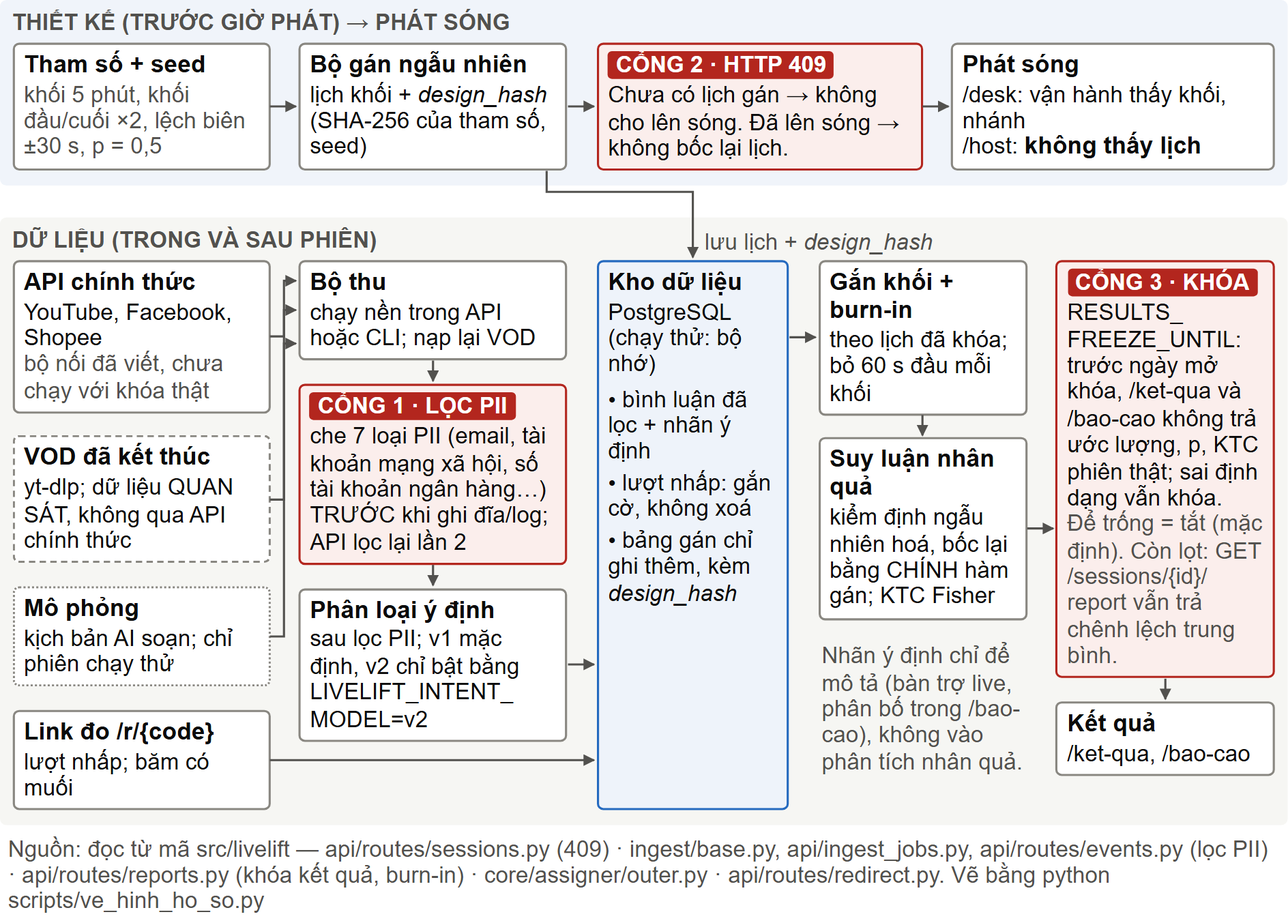
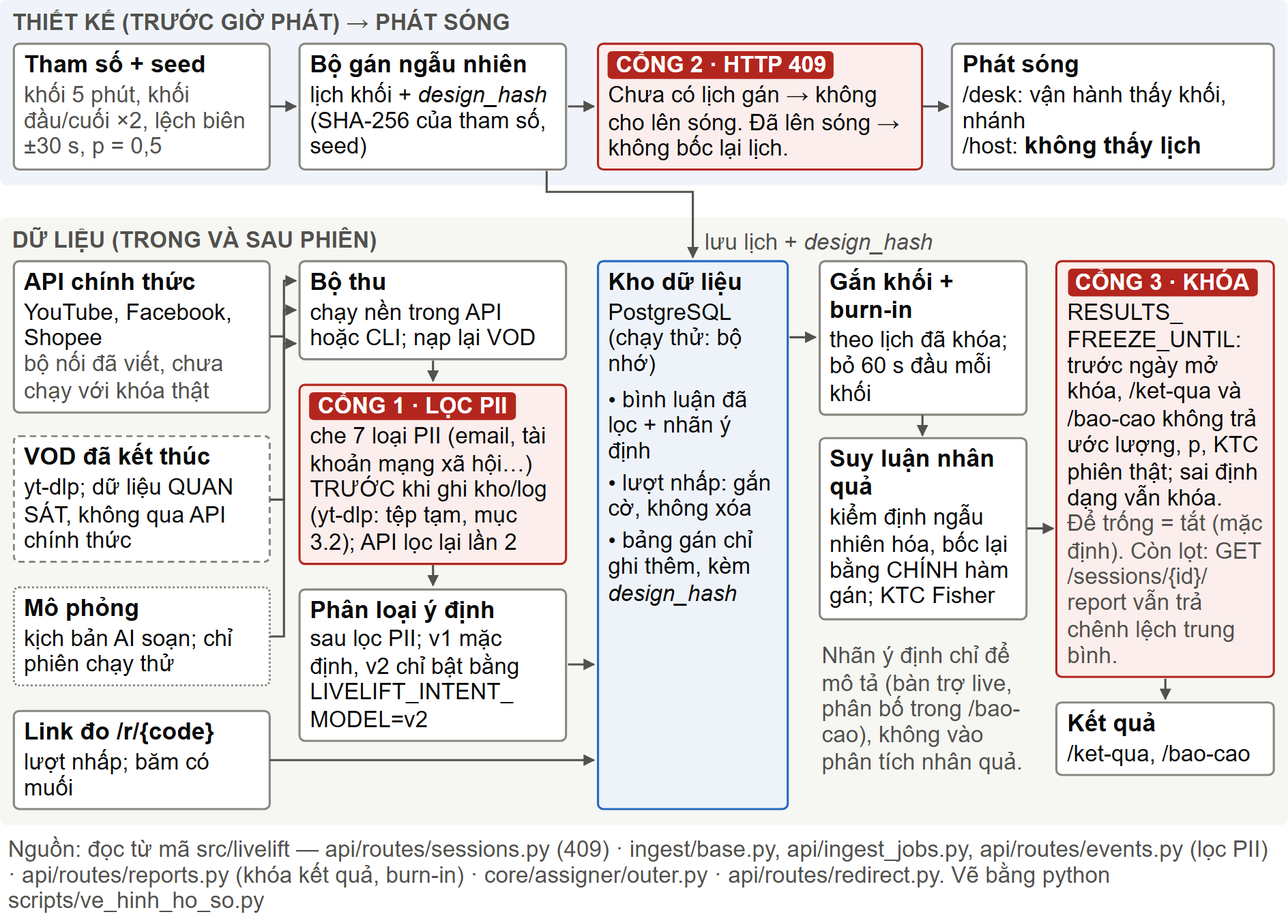
Ho so, ke khai: sua loi con lai cua kiem doc lap (P0 cong, 6 P1, P2)
Vi sao:
- Kiem doc lap 25/09 (wf6) tim 1 P0, 6 P1, 13 P2 con lai sau 39ab96a/816ed60.
- P1: tests/test_artifact_khong_pii.py va so su co ghi 12 ky tu dau SHA-256
  khong muoi cua ten tai khoan that mot nguoi binh luan, trai ho so 3.2
  "ke ca dang bam"; chuoi nam o 47e5320, 17c3ee1, chua len origin/main.
- P1: the Tu ghim tren /chay-phien (se len video demo) hua "tu ghim san pham
  tot nhat; ban chi theo doi", trai ho so 11.2 va ke khai IX.
- P1: Bang 6 ghi hieu hai trung binh "da go" trong khi analyze_outer dung no
  lam uoc luong diem; Bang 10 xep Next.js, INGEST_TOKEN, RESULTS_FREEZE_UNTIL
  sau cac phien that; may chu Singapore chua noi voi Luat 91 Dieu 20; 11.2
  chua tra loi cau nguoi xem chiu can thiep khong duoc bao truoc.
- P0: ke khai ta kho truoc hop nhat (main 390027b, 56/56, "chua hop nhat");
  dien ma commit o muc 13 ma khong sua 05 thi hai van ban nop cung mau thuan.

Thay doi:
- Test PII: bam ten tai khoan doc tu tep ngoai kho (LIVELIFT_DINH_DANH_BAM,
  mac dinh tep canh thu muc kho); cong quet moi tep da theo doi tim tien to
  >=10 hex cua bam da biet (doi chung duong); go chuoi hex khoi test va so.
- Web: the Tu ghim noi "tu chon san pham va ra lenh ghim trong khoi BAT;
  nguoi tro live van bam ghim tren ung dung cua nen tang"; HUONG-DAN theo.
- dung_ke_khai.lech_trang_thai_kho: muc 13 co ma commit thi 05 phai ghi dung
  ma do va het cau ta kho truoc hop nhat; bo dung ke khai chan.
- noi-dung.md: Bang 6, Bang 10 (+ dieu kien truoc phien that duoi bang),
[…]

Changed region(s): [[0.2188, 0.4967, 0.4375, 0.6208]]

diff --git a/docs/competition/sang-tao-tre-2026/hinh/h2-kien-truc.html b/docs/competition/sang-tao-tre-2026/hinh/h2-kien-truc.html
@@ -60,22 +60,22 @@
    <div class="cot">
     <div class="hop" id="thu"><b>Bộ thu</b>chạy nền trong API hoặc CLI; nạp lại VOD</div>
     <div class="hop cong" id="cong1"><span class="the">CỔNG 1 · LỌC PII</span><br>
-      che 7 loại PII (email, tài khoản mạng xã hội, số tài khoản ngân hàng…) TRƯỚC khi ghi đĩa/log;
-      API lọc lại lần 2</div>
+      che 7 loại PII (email, tài khoản mạng xã hội…) TRƯỚC khi ghi kho/log
+      (yt-dlp: tệp tạm, mục 3.2); API lọc lại lần 2</div>
     <div class="hop" id="nlp"><b>Phân loại ý định</b>sau lọc PII; v1 mặc định, v2 chỉ bật bằng
       LIVELIFT_<wbr>INTENT_<wbr>MODEL=v2</div>
    </div>
    <div class="cot">
     <div class="hop kho" id="kho"><b>Kho dữ liệu</b>PostgreSQL (chạy thử: bộ nhớ)
       <div style="margin-top:0.1cm">• bình luận đã lọc + nhãn ý định</div>
-      <div style="margin-top:0.06cm">• lượt nhấp: gắn cờ, không xoá</div>
+      <div style="margin-top:0.06cm">• lượt nhấp: gắn cờ, không xóa</div>
       <div style="margin-top:0.06cm">• bảng gán chỉ ghi thêm, kèm <i>design_hash</i></div></div>
    </div>
    <div class="cot">
     <div class="hop" id="khung"><b>Gắn khối + burn-in</b>
       theo lịch đã khóa; bỏ 60 s đầu mỗi khối</div>
     <div class="hop" id="ri"><b>Suy luận nhân quả</b>
-      kiểm định ngẫu nhiên hoá, bốc lại bằng CHÍNH hàm gán; KTC Fisher</div>
+      kiểm định ngẫu nhiên hóa, bốc lại bằng CHÍNH hàm gán; KTC Fisher</div>
     <div class="ghi-chu">Nhãn ý định chỉ để mô tả (bàn trợ live, phân bố trong
       /bao-cao), không vào phân tích nhân quả.</div>
    </div>

diff --git a/web/src/app/chay-phien/page.tsx b/web/src/app/chay-phien/page.tsx
@@ -1631,7 +1631,7 @@ export default function ChayPhienPage() {
                             khuyên dùng
                           </span>
                         }
-                        note="Hệ thống tự ghim sản phẩm tốt nhất khi đến lượt; bạn chỉ theo dõi trên bàn trợ live."
+                        note="Hệ thống tự chọn sản phẩm và ra lệnh ghim trong khối BẬT; người trợ live vẫn bấm ghim trên ứng dụng của nền tảng."
                       />
                       <ChoiceCard
                         selected={form.mode === "suggest"}

diff --git a/tests/test_artifact_khong_pii.py b/tests/test_artifact_khong_pii.py
@@ -2,7 +2,7 @@
 
 Sự cố 25/09/2026 (P0). ``intent_clf_v2.joblib`` đóng gói 14/09 trên dữ liệu CHƯA
 lọc lại tên tài khoản, nên từ vựng TF-IDF của nó chứa 1 token sinh từ tên tài
-khoản của một người bình luận (sha256[:12] = ``66bb97b5d495``) cùng các mảnh
+khoản của một người bình luận (băm ghi ngoài kho, xem ``TEP_BAM_MAC_DINH``) cùng các mảnh
 ``char_wb`` chứa ``@``. Pickle giữ nguyên văn từng chuỗi của từ vựng: artifact
 commit vào git là một bản sao dữ liệu người dùng, dù dữ liệu gốc đã lọc sạch.
 Không cổng nào bắt được, vì mọi cổng PII chỉ quét tệp văn bản.
@@ -41,8 +41,11 @@ from __future__ import annotations
 import copy
 import hashlib
 import json
+import os
 import re
+import subprocess
 from collections.abc import Iterable, Iterator
+from pathlib import Path
 from typing import Any
 
 import pytest
@@ -58,8 +61,63 @@ AT_WORD_RE = re.compile(r"@\w")
 """Mẫu ``@`` + ký tự chữ: dấu vết của handle (``@ten_tai_khoan``) trong bất kỳ
 mảnh n-gram nào, kể cả mảnh quá ngắn để ``SOCIAL_HANDLE_RE`` (≥ 3 ký tự) khớp."""
 
-KNOWN_LEAKED_SHA12: frozenset[str] = frozenset({"66bb97b5d495"})
-"""Băm sha256[:12] của token đã lộ (sự cố 25/09/2026). Chỉ lưu băm."""
+GOC = Path(__file__).resolve().parents[1]
+BIEN_TEP_BAM = "LIVELIFT_DINH_DANH_BAM"
+TEP_BAM_MAC_DINH = GOC.parent / "dinh-danh-da-biet.sha256"
+"""Tệp băm SHA-256 tên tài khoản thật đã biết (``xuat_prompt_log.py --lap-doi-chieu``), lưu
+NGOÀI kho: đặt đường dẫn qua ``LIVELIFT_DINH_DANH_BAM``; không đặt thì thử tệp cạnh thư mục
+kho (``D:/AISC2026/dinh-danh-da-biet.sha256`` trên máy đội trưởng); không có thì lớp 2 và
+phép quét tiền tố bên dưới không chạy — ba lớp còn lại vẫn chạy."""
+TIEN_TO_TOI_THIEU = 10
+"""Tiền tố ≥ 10 ký tự hex (40 bit) của một băm đã biết cũng là định danh: đủ để xác nhận một
+tên đoán thử. Cùng ngưỡng với ``TIEN_TO_BAM_TOI_THIEU`` của ``scripts/xuat_prompt_log.py``."""
+
+
+def _doc_bam_dinh_danh() -> frozenset[str]:
+    duong = os.environ.get(BIEN_TEP_BAM)
+    if not duong:
+        if not TEP_BAM_MAC_DINH.exists():
+            return frozenset()
+        duong = str(TEP_BAM_MAC_DINH)
+    tap = set()
+    for dong in Path(duong).read_text(encoding="utf-8").splitlines():
+        dong = dong.strip()
+        if dong and not dong.startswith("#"):
+            bam = dong.split()[0].lower()
+            assert re.fullmatch(r"[0-9a-f]{64}", bam), f"{BIEN_TEP_BAM}: dòng không phải SHA-256"
+            tap.add(bam)
+    assert tap, f"{duong}: tập băm rỗng"
+    return frozenset(tap)
+
+
+BAM_DINH_DANH: frozenset[str] = _doc_bam_dinh_danh()
+
+KNOWN_LEAKED_SHA12: frozenset[str] = frozenset(b[:12] for b in BAM_DINH_DANH)
+"""sha256[:12] của các tên tài khoản thật đã biết — gồm token đã lộ của sự cố 25/09/2026 —
+đọc từ tệp băm ngoài kho (rỗng khi không có tệp). Không ghi băm nào vào kho."""
+
+
+def tien_to_bam_trong_kho(tap: frozenset[str]) -> list[str]:
+    """``tệp:dòng`` của mỗi đoạn hex trong tệp văn bản ĐÃ THEO DÕI của kho chứa tiền tố
+    (≥ ``TIEN_TO_TOI_THIEU`` ký tự) của một băm trong ``tap``. Không trả chính đoạn hex."""
+    tien_to = {b[:TIEN_TO_TOI_THIEU] for b in tap}
+    tep = subprocess.run(
+        ["git", "ls-files", "-z"], cwd=GOC, capture_output=True, check=True
+    ).stdout.decode("utf-8")
+    kq = []
+    n = TIEN_TO_TOI_THIEU
+    for ten in filter(None, tep.split("\0")):
+        p = GOC / ten
+        if p.suffix.lower() in {".png", ".joblib", ".ico", ".jpg", ".pdf"} or not p.is_file():
+            continue
+        for so, dong in enumerate(p.read_text(encoding="utf-8", errors="ignore").splitlines(), 1):
+            for m in re.finditer(rf"[0-9a-fA-F]{{{n},}}", dong):
+                s = m.group(0).lower()
+                if any(s[i : i + n] in tien_to for i in range(len(s) - n + 1)):
+                    kq.append(f"{ten}:{so}")
+                    break
+    return kq
+
 
 HANDLE_SPAN_RE = re.compile(r"@\w[\w.\-]*")
 """Đoạn ``@tên`` bất kể chữ đứng trước — rộng hơn ``SOCIAL_HANDLE_RE`` của sản phẩm,
@@ -369,6 +427,17 @@ def test_doi_chung_am_bam_da_lo_bi_bat_ma_khong_can_luu_chu():
     known = KNOWN_LEAKED_SHA12 | {sha12(gia)}
     assert ly_do_vi_pham(gia, known) == "băm-đã-lộ"
     assert quet(["chào shop", gia], known) == [(sha12(gia), "băm-đã-lộ")]
+    # Kiểm độc lập 25/09/2026 (wf6-5): chính hằng số băm đã lộ từng nằm trong kho (test này và
+    # sổ sự cố) — 12 ký tự đầu của SHA-256 KHÔNG muối của một tên tài khoản thật, băm ngược
+    # được bằng cách đoán tên từ bản phát lại công khai; trái hồ sơ 3.2 "kể cả dạng băm". Băm
+    # nay chỉ nằm trong tệp ngoài kho; không tệp nào của kho được mang tiền tố của chúng.
+    # Đối chứng dương: một băm SHA-256 ghi sẵn trong kho (không phải định danh) phải bị thấy.
+    mau = "docs/benchmarks/intent-eval/gan-mu/khoa-gan-mu.csv.sha256"
+    bam_mau = (GOC / mau).read_text(encoding="utf-8").split()[0].lower()
+    assert f"{mau}:1" in tien_to_bam_trong_kho(frozenset({bam_mau}))
+    if BAM_DINH_DANH:
+        cho = tien_to_bam_trong_kho(BAM_DINH_DANH)
+        assert cho == [], f"tiền tố băm tên tài khoản thật còn trong kho (tệp:dòng): {cho}"
 
 
 def test_placeholder_cua_bo_chuan_hoa_khong_bi_coi_la_pii():

diff --git a/scripts/ve_hinh_ho_so.py b/scripts/ve_hinh_ho_so.py
@@ -563,7 +563,7 @@ def ve_h1(plt) -> dict:
             linespacing=1.15,
         )
 
-    # mốc lên sóng + kết thúc (hàng T2) và mốc khoá lịch (hàng T1)
+    # mốc lên sóng + kết thúc (hàng T2) và mốc khóa lịch (hàng T1)
     y_t2, y_t1 = 3.0, 3.52
     for xm in (0, PHIEN_PHUT):
         ax.plot([xm, xm], [y0 - 0.03, y_t2 - 0.02], color=MUC, lw=1.1, zorder=7)
@@ -591,7 +591,7 @@ def ve_h1(plt) -> dict:
     ax.text(
         xk + 0.8,
         y_t1,
-        f"Khoá lịch TRƯỚC giờ phát — POST /schedule lưu lịch + design_hash {ma_bam[:16]}…",
+        f"Khóa lịch TRƯỚC giờ phát — POST /schedule lưu lịch + design_hash {ma_bam[:16]}…",
         fontsize=8,
         ha="left",
         va="center",
@@ -661,7 +661,7 @@ def ve_h1(plt) -> dict:
         Patch(facecolor=XAM_TAT, edgecolor="none", label="TẮT — khối đối chứng"),
         Patch(facecolor=MUC, alpha=0.6, edgecolor="none", label=f"burn-in {BURN_IN_S} s"),
         plt.Line2D(
-            [], [], ls="none", marker="D", ms=5, color=DO_CONG, mec="white", label="khoá lịch"
+            [], [], ls="none", marker="D", ms=5, color=DO_CONG, mec="white", label="khóa lịch"
         ),
     ]
     fig.legend(
@@ -784,22 +784,22 @@ def html_h2() -> str:
    <div class="cot">
     <div class="hop" id="thu"><b>Bộ thu</b>chạy nền trong API hoặc CLI; nạp lại VOD</div>
     <div class="hop cong" id="cong1"><span class="the">CỔNG 1 · LỌC PII</span><br>
-      che {len(ten_pii)} loại PII ({", ".join(ten_pii[:3])}…) TRƯỚC khi ghi đĩa/log;
-      API lọc lại lần 2</div>
+      che {len(ten_pii)} loại PII ({", ".join(ten_pii[:2])}…) TRƯỚC khi ghi kho/log
+      (yt-dlp: tệp tạm, mục 3.2); API lọc lại lần 2</div>
     <div class="hop" id="nlp"><b>Phân loại ý định</b>sau lọc PII; v1 mặc định, v2 chỉ bật bằng
       {INTENT_MODEL_ENV.replace("_", "_<wbr>")}=v2</div>
    </div>
    <div class="cot">
     <div class="hop kho" id="kho"><b>Kho dữ liệu</b>PostgreSQL (chạy thử: bộ nhớ)
       <div style="margin-top:0.1cm">• bình luận đã lọc + nhãn ý định</div>
-      <div style="margin-top:0.06cm">• lượt nhấp: gắn cờ, không xoá</div>
+      <div style="margin-top:0.06cm">• lượt nhấp: gắn cờ, không xóa</div>
       <div style="margin-top:0.06cm">• bảng gán chỉ ghi thêm, kèm <i>design_hash</i></div></div>
    </div>
    <div class="cot">
     <div class="hop" id="khung"><b>Gắn khối + burn-in</b>
       theo lịch đã khóa; bỏ {BURN_IN_S} s đầu mỗi khối</div>
     <div class="hop" id="ri"><b>Suy luận nhân quả</b>
-      kiểm định ngẫu nhiên hoá, bốc lại bằng CHÍNH hàm gán; KTC Fisher</div>
+      kiểm định ngẫu nhiên hóa, bốc lại bằng CHÍNH hàm gán; KTC Fisher</div>
     <div class="ghi-chu">Nhãn ý định chỉ để mô tả (bàn trợ live, phân bố trong
       /bao-cao), không vào phân tích nhân quả.</div>
    </div>
@@ -2110,7 +2110,7 @@ def ghi_nguon(tom_tat: dict) -> None:
             f"BẬT/{h['n_tat']} TẮT, khối đầu "
             f"{so(h['khoi_dau_phut'], 1)} phút và khối cuối {so(h['khoi_cuoi_phut'], 1)} phút "
             "(nhân đôi), "
-            f"burn-in {h['burn_in_s']} s đầu mỗi khối, mốc khoá lịch + `design_hash` "
+            f"burn-in {h['burn_in_s']} s đầu mỗi khối, mốc khóa lịch + `design_hash` "
             f"`{h['design_hash'][:12]}…` trước giờ phát, mốc lên sóng (409 nếu chưa có lịch) và "
             "kết thúc | "
             f"`generate_schedule({PHIEN_PHUT}, DesignParams(), seed={h['seed']})`, `design_hash`, "
@@ -2247,9 +2247,9 @@ def ghi_nguon(tom_tat: dict) -> None:
         "định); vùng 5–15 người xem là ước tính từ chi phí quảng cáo (CPM), **chưa đo**.",
         "- Hình 2: nguồn VOD là dữ liệu quan sát lấy bằng yt-dlp, **không** qua API chính thức; "
         "các bộ nối API "
-        "chính thức đã viết nhưng chưa chạy với khoá thật. `RESULTS_FREEZE_UNTIL` hiện để trống "
+        "chính thức đã viết nhưng chưa chạy với khóa thật. `RESULTS_FREEZE_UNTIL` hiện để trống "
         "(tắt) trong "
-        "`.env.example`; khi đặt, `/ket-qua` và `/bao-cao` bị khoá nhưng "
+        "`.env.example`; khi đặt, `/ket-qua` và `/bao-cao` bị khóa nhưng "
         "`GET /sessions/{id}/report` vẫn trả chênh lệch trung bình (đường lọt đã biết, kiểm "
         "toán 25/09) — hộp CỔNG 3 ghi rõ; vá xong thì sửa `html_h2()` và chạy lại `--chi h2`.",
         *_luu_y_h6(tom_tat.get("h6")),

diff --git a/docs/competition/sang-tao-tre-2026/ke_khai/dung_ke_khai.py b/docs/competition/sang-tao-tre-2026/ke_khai/dung_ke_khai.py
@@ -374,6 +374,37 @@ def kiem_md(khoi: list[Khoi]) -> list[str]:
     return loi
 
 
+HO_SO = DAY.parent / "noi-dung.md"
+_MA_COMMIT_MUC_13 = re.compile(r"nhánh `main` tại commit `([0-9a-f]{7,40})`")
+# Câu tả kho TRƯỚC khi hợp nhất nhánh hoàn thiện hồ sơ vào `main` (kiểm độc lập 25/09/2026).
+_CAU_TRUOC_HOP_NHAT: tuple[tuple[str, str], ...] = (
+    (r"`main` tại commit `390027b`", "trạng thái mã nguồn còn ghi main = 390027b"),
+    (r"\b56/56\b", "còn ghi 56/56 commit trên main (I.1, VII.1)"),
+    (r"0 trên `main`", "I.2 còn ghi Opus 5.5 có 0 commit trên main"),
+    (r"Chờ trưởng nhóm hợp nhất", "II còn ghi chờ hợp nhất"),
+    (r"Trên nhánh hoàn thiện hồ sơ", "II còn tả thay đổi là của nhánh chưa hợp nhất"),
+    (r"nhánh hoàn thiện hồ sơ[^|\n]{0,40}chưa hợp nhất", "còn ghi nhánh hoàn thiện chưa hợp nhất"),
+    (r"Commit trên `main` \| 56 commit", "VII.1 còn ghi 56 commit trên main"),
+)
+
+
+def lech_trang_thai_kho(ho_so: str, ke_khai: str) -> list[str]:
+    """Hồ sơ mục 13 đã ghi mã commit `main` (tức đã hợp nhất và đẩy lên) thì bản kê khai không
+    được còn tả kho như trước khi hợp nhất, và phải ghi đúng mã commit đó. Mục 13 còn ô ⬜ thì
+    không kiểm (trả rỗng). Trả danh sách lỗi, rỗng là khớp."""
+    m = _MA_COMMIT_MUC_13.search(ho_so)
+    if not m:
+        return []
+    loi = [
+        f"hồ sơ mục 13 trỏ main {m.group(1)} nhưng bản kê khai {ly_do} ({len(thay)} chỗ)"
+        for mau, ly_do in _CAU_TRUOC_HOP_NHAT
+        if (thay := re.findall(mau, ke_khai))
+    ]
+    if m.group(1)[:7] not in ke_khai:
+        loi.append(f"bản kê khai không ghi mã commit main {m.group(1)[:7]} của hồ sơ mục 13")
+    return loi
+
+
 def kiem_docx(tep: Path) -> list[str]:
     from docx import Document
     from docx.oxml.ns import qn
@@ -431,8 +462,11 @@ def main(argv: list[str] | None = None) -> int:
     ap.add_argument("--chi-kiem", action="store_true", help="chỉ kiểm tệp .md, không dựng")
     a = ap.parse_args(argv)
 
-    khoi = phan_tich(a.nguon.read_text(encoding="utf-8"))
+    nguon = a.nguon.read_text(encoding="utf-8")
+    khoi = phan_tich(nguon)
     loi = kiem_md(khoi)
+    if HO_SO.exists():
+        loi += lech_trang_thai_kho(HO_SO.read_text(encoding="utf-8"), nguon)
     if loi:
         print("CHƯA DỰNG — nguồn còn lỗi:")
         for x in loi:

diff --git a/tests/test_ve_hinh_ho_so.py b/tests/test_ve_hinh_ho_so.py
@@ -24,6 +24,7 @@ from __future__ import annotations
 import copy
 import dataclasses
 import importlib.util
+import inspect
 import json
 import re
 import struct
@@ -428,6 +429,26 @@ def test_nguon_md_sinh_tu_tom_tat_khong_sua_tay(vh, monkeypatch, tmp_path):
         for i, d in enumerate(tai_lieu[p].splitlines(), 1):
             if "làm mù" in d:
                 assert "một phần" in d, f"{p}:{i} nói làm mù mà không nói 'một phần'"
+    # Kiểm độc lập 25/09/2026 (wf6-5): hồ sơ đã đổi sang "lọc định danh" (Luật 91 Điều 2 khoản
+    # 11: khử nhận dạng là việc CHƯA làm) nhưng §10, 8.1, Bảng 9 còn "khử PII"; CỔNG 1 của
+    # Hình 6 ghi lọc "TRƯỚC khi ghi đĩa" trái ngoại lệ 3.2 (yt-dlp để tệp chat thô trên đĩa);
+    # chữ trong hình còn chính tả cũ (khoá, hoá, xoá) lệch thân bài; hướng dẫn sử dụng nói
+    # Tự ghim chọn "sản phẩm tốt nhất", người dùng "chỉ theo dõi".
+    ho_so = (GOC / "docs/competition/sang-tao-tre-2026/noi-dung.md").read_text(encoding="utf-8")
+    assert "khử PII" not in ho_so, "hồ sơ còn 'khử PII' — dùng 'lọc PII' (mục 3.2, 3.3)"
+    for ten, chu in (
+        ("html_h2()", vh.html_h2()),
+        ("h2-kien-truc.html", (HINH / "h2-kien-truc.html").read_text(encoding="utf-8")),
+    ):
+        assert "ghi đĩa" not in chu, f"{ten}: CỔNG 1 nói lọc trước khi ghi đĩa (sai với 3.2)"
+        assert "tệp tạm" in chu, f"{ten}: CỔNG 1 phải nêu ngoại lệ tệp tạm của yt-dlp"
+        for cu in ("khoá", "hoá", "xoá"):
+            assert cu not in chu, f"{ten} còn chính tả cũ {cu!r}"
+    nguon_h1 = inspect.getsource(vh.ve_h1)
+    assert "khoá lịch" not in nguon_h1.lower(), "Hình 1 còn 'Khoá lịch' — hồ sơ viết 'khóa'"
+    hd = re.sub(r"\s+", " ", tai_lieu["docs/HUONG-DAN-SU-DUNG.md"])
+    for cum in ("sản phẩm tốt nhất", "bạn chỉ theo dõi"):
+        assert cum not in hd, f"HUONG-DAN-SU-DUNG còn nói quá về Tự ghim: {cum!r}"
 
 
 # ------------------------------------------------------------------ khổ in PNG

diff --git a/docs/competition/sang-tao-tre-2026/ke_khai/test_dung_ke_khai.py b/docs/competition/sang-tao-tre-2026/ke_khai/test_dung_ke_khai.py
@@ -172,6 +172,24 @@ def test_khang_dinh_sai_cu_chi_con_trong_muc_dinh_chinh():
     can_cu = md.index("## Căn cứ")
     for m in re.finditer("13/2023", md):
         assert can_cu <= m.start() < cuoi, "Nghị định 13/2023 chỉ được nhắc là đã bị thay"
+    # Kiểm độc lập 25/09/2026 (wf6-5, P0): hồ sơ mục 13 sẽ trỏ `main` SAU khi hợp nhất, còn
+    # 05 tả `main` = 390027b, 56/56 commit, nhánh hoàn thiện "chưa hợp nhất". Điền mã commit ở
+    # mục 13 mà không sửa 05 thì hai văn bản nộp cùng nhau mâu thuẫn — bộ dựng phải chặn.
+    ho_so = (DAY.parent / "noi-dung.md").read_text(encoding="utf-8")
+    assert dung_ke_khai.lech_trang_thai_kho(ho_so, md) == [], "mục 13 chưa điền mã commit"
+    sau_hop_nhat = ho_so.replace("commit ⬜ *điền sau khi hợp nhất và đẩy lên*", "commit `a1b2c3d`")
+    assert sau_hop_nhat != ho_so, "câu mục 13 đổi chữ — sửa mẫu dò _MA_COMMIT_MUC_13"
+    lech = dung_ke_khai.lech_trang_thai_kho(sau_hop_nhat, md)
+    assert any("390027b" in x for x in lech), lech
+    assert any("a1b2c3d" in x for x in lech), lech
+    assert len(lech) >= 5, lech  # dòng 11, I.1, I.2, II, VII.1
+    # 05 đã viết lại theo trạng thái sau hợp nhất thì sạch — kể cả câu PR số 1 "chưa hợp nhất".
+    da_sua = (
+        "| Trạng thái mã nguồn khi kê khai | Nhánh `main` tại commit `a1b2c3d` (đã hợp nhất "
+        "`hoan-thien/ho-so-2509`; trước đó `main` ở 390027b, 56 commit). Nhánh "
+        "`tien/aisc-round2` (PR số 1) chưa hợp nhất |"
+    )
+    assert dung_ke_khai.lech_trang_thai_kho(sau_hop_nhat, da_sua) == []
 
 
 def test_dung_docx_khong_lot_ky_hieu(tmp_path):

diff --git a/tests/test_web_phan_bien_1709_khac.py b/tests/test_web_phan_bien_1709_khac.py
@@ -553,6 +553,17 @@ def test_k4_wizard_gui_dry_run_va_giai_thich_o_buoc_4():
         card = s2[s2.rindex("<ChoiceCard", 0, at) : at]
         assert f"onClick={{() => setForm({{ ...form, chayThu: {value} }})}}" in card, title
 
+    # Kiểm độc lập 25/09/2026 (wf6-5): thẻ "Tự ghim" hứa "tự ghim sản phẩm tốt nhất; bạn chỉ
+    # theo dõi" — hồ sơ 11.2 và bản kê khai nói thao tác ghim trên ứng dụng của nền tảng vẫn do
+    # người làm, và khi khoảng tin cậy chồng lấn hệ thống bốc đều (xác suất 1/k), không chọn
+    # "tốt nhất". Màn này lên video demo, nên chữ trên thẻ phải khớp hai văn bản nộp kèm.
+    tu_ghim = raw[raw.index('title="Tự ghim"') :]
+    note = " ".join(re.search(r'note="([^"]*)"', tu_ghim).group(1).split())
+    for sai in ("bạn chỉ theo dõi", "sản phẩm tốt nhất"):
+        assert sai not in note, f"thẻ Tự ghim còn nói quá: {sai!r}"
+    assert "người trợ live vẫn bấm ghim trên ứng dụng của nền tảng" in note, note
+    assert "trong khối BẬT" in note, note
+
     body_ts = code(read(API_TS))
     create = body_ts[body_ts.index("export function createSession") :][:400]
     assert "dry_run?: boolean;" in create

diff --git a/docs/competition/sang-tao-tre-2026/dung_ho_so.py b/docs/competition/sang-tao-tre-2026/dung_ho_so.py
@@ -90,7 +90,8 @@ RONG_CHU_CM = 16.0  # A4 11907 twip − lề trái 1701 − lề phải 1134 = 9
 
 TAC_GIA = "Đội LiveLift"
 TIEU_DE_TEP = (
-    "LiveLift — Hồ sơ dự án Bảng C, Cuộc thi Sáng tạo trẻ Quốc gia về Trí tuệ nhân tạo 2026"
+    "LiveLift — Hồ sơ dự án Bảng C, Cuộc thi Sáng tạo trẻ Quốc gia trong lĩnh vực "
+    "Trí tuệ nhân tạo năm 2026"
 )
 
 # MẪU 3 hỏi "Lớp hành chính, ngành, khoa, trường" — KHÔNG hỏi MSSV. Bản PDF còn

diff --git a/docs/competition/sang-tao-tre-2026/ke_khai/dung_goi_drive.py b/docs/competition/sang-tao-tre-2026/ke_khai/dung_goi_drive.py
@@ -178,7 +178,7 @@ def tien_trinh(
 def doc_truoc() -> str:
     return f"""# ĐỌC TRƯỚC — Minh chứng quá trình phát triển LiveLift
 
-Đội LiveLift · Cuộc thi Sáng tạo trẻ Quốc gia về Trí tuệ nhân tạo 2026 · Bảng C.
+Đội LiveLift · Cuộc thi Sáng tạo trẻ Quốc gia trong lĩnh vực Trí tuệ nhân tạo năm 2026 · Bảng C.
 Kho mã nguồn công khai: {KHO}
 
 | Thư mục | Nội dung |

diff --git a/docs/incident-log.md b/docs/incident-log.md
@@ -86,7 +86,7 @@ bắt buộc: lỗi này lọt qua gate nào, có cần gate mới không (ghi "
 | 25/09/2026 | **SERIOUS (nhận vơ trên trang chủ)** — trang chủ ghi "16 buổi live thật đã chạy qua hệ thống" và chú thích số test ghi ngày chạy cũ | Nhãn viết như thể LiveLift đã vận hành 16 buổi, trong khi đó là 16 VOD YouTube công khai tải bằng yt-dlp và chỉ phân tích QUAN SÁT; script đồng bộ chỉ cập nhật số nên ngày viết cứng cũ đi | `3a2b489` | CÓ — `test_hang_so_trang_chu_noi_ro_16_buoi_la_quan_sat` |
 | 25/09/2026 | **SERIOUS (liêm chính — khai sai nguồn nhãn tái phát)** — 10 ngày sau đính chính 15/09, `results.md` tự sinh (và `eval_intent.py`: grep nghiệm thu K-03 khớp 7 dòng trên 390027b) vẫn in "Nhãn test do người gán", "gán nhãn TAY, mù", nguồn train lô 2 `gold_human`; `data/labeling/README.md` và 03-NLP §7 ghi "không số đánh giá nào đo trên nhãn do AI sinh"; `intent-classifier.md` còn "320 bình luận được biên soạn thủ công"; `05-BAN-KE-KHAI.md` còn 320 câu "tự viết", 393 "người gán", 0,271, A/A 4,5%, 1.297 câu lệnh, NĐ 13/2023; meta của artifact v2 ghi `gold_human` | Đính chính 15/09 sửa tay các tài liệu nộp nhưng không sửa MÃ sinh báo cáo, nên lần chạy nào cũng sinh lại câu sai; câu khai nguồn nhãn là chuỗi cứng rải ở `render_markdown`/`build_inventory`/`main`/docstring, không có nguồn duy nhất; không có cổng quét khẳng định đã đính chính | `83050d5` — `LABEL_PROVENANCE` là nguồn duy nhất cho Markdown/JSON/dòng in, `GOLD_SOURCE='gold_ai'`, sinh lại `results.{json,md}`, sửa 03-NLP, `intent-classifier.md`, `live-fire-*.md`, `data/labeling/README.md` · `2569555` — viết lại `05-BAN-KE-KHAI.md` có bảng Đính chính · meta artifact v2: đóng gói lại, nhánh hoan-thien/ho-so-2509 (V1) | CÓ — `test_generated_report_never_claims_human_labels`, `test_eval_source_has_no_human_label_claim` (nghiệm thu K-03), `test_provenance_constant_is_the_single_source_and_says_ai`, `test_inventory_and_training_rows_name_the_ai_source` (hai test đầu đỏ trên 390027b); `ke_khai/test_dung_ke_khai.py` (khẳng định cũ chỉ được nằm trong mục Đính chính) — nhưng tệp này nằm trong `docs/` nên `pytest` mặc định (testpaths=tests) KHÔNG thu thập |
 | 25/09/2026 | **MODERATE (báo cáo chọn "tốt nhất" trên hai thang chấm)** — mục "hệ thống tốt nhất" của `results.md` trình bày A8 (0,609 trên thang 6 lớp gộp) trong khi tài liệu trích F1 từng lớp của C2 (thang 11 lớp) | `report['best'] = max(macro_f1)` trên MỌI dòng, trộn hai thang chấm khác nhau và chọn theo điểm trên chính tập test | `83050d5` — `select_reported_system` ưu tiên dòng mang `packaged_as` (C2 = cấu hình đóng gói v2), không có thì chỉ so trong thang 11 lớp; mỗi dòng mang trường `scale` | CÓ — `test_reported_system_is_the_packaged_one_not_the_best_score_on_another_scale` (quy tắc cũ chọn A8). Còn yếu: `packaged_as` gắn theo chỉ số cứng `rows_improved[1]` |
-| 25/09/2026 | **SERIOUS (dữ liệu cá nhân)** — quét lại `data/labeling` bằng bộ lọc hiện hành còn **57 tên tài khoản** (phần "CÒN LẠI" của sự cố 15/09); artifact đã commit `intent_clf_v2.joblib` mang **1 token sinh từ tên tài khoản** của một người bình luận trong từ vựng TF-IDF (sha256[:12] `66bb97b5d495`) — kho công khai đang giữ một mảnh dữ liệu người dùng dù dữ liệu gốc đã lọc | Không có bước lọc lại dữ liệu ĐÃ LƯU khi bộ lọc PII đổi; artifact v2 huấn luyện 14/09 trên văn bản chưa lọc lại; mọi cổng PII chỉ quét tệp văn bản, không cổng nào quét từ vựng của artifact | `83050d5` — `scripts/gan_mu/loc_lai_pii.py` dùng đúng `scrub()` của sản phẩm, đã chạy (57 → 0, lũy đẳng, sao lưu ngoài kho) · đóng gói lại v2 trên dữ liệu đã lọc: nhánh hoan-thien/ho-so-2509 (V1). Lịch sử git công khai vẫn giữ bản cũ — viết lại lịch sử hay không do trưởng nhóm quyết | CÓ — `loc_lai_pii.py --kiem-tra` trả mã 1 khi còn PII; `test_rescrub_removes_handles_keeps_labels_and_is_idempotent`, `test_rescrub_check_mode_is_a_gate_and_prints_no_comment_text`; quét từ vựng mọi `*.joblib`: `tests/test_artifact_khong_pii.py` (V1, chưa commit — quét mẫu `@\w` + bộ lọc PII của sản phẩm, băm đã lộ không được quay lại, từ vựng ⊆ dữ liệu train đã lọc; đối chứng âm tiêm token giả) |
+| 25/09/2026 | **SERIOUS (dữ liệu cá nhân)** — quét lại `data/labeling` bằng bộ lọc hiện hành còn **57 tên tài khoản** (phần "CÒN LẠI" của sự cố 15/09); artifact đã commit `intent_clf_v2.joblib` mang **1 token sinh từ tên tài khoản** của một người bình luận trong từ vựng TF-IDF (băm ghi ngoài kho) — kho công khai đang giữ một mảnh dữ liệu người dùng dù dữ liệu gốc đã lọc · Kiểm độc lập 25/09 (wf6-5): chính cổng mới và dòng sổ này ghi 12 ký tự đầu của băm SHA-256 KHÔNG muối của tên tài khoản đó (commit `47e5320`, `17c3ee1`, chưa đẩy lên), trái hồ sơ 3.2 “kể cả dạng băm” | Không có bước lọc lại dữ liệu ĐÃ LƯU khi bộ lọc PII đổi; artifact v2 huấn luyện 14/09 trên văn bản chưa lọc lại; mọi cổng PII chỉ quét tệp văn bản, không cổng nào quét từ vựng của artifact · Băm không muối của một tên đoán được từ bản phát lại công khai vẫn là định danh; không cổng nào quét kho tìm tiền tố băm | `83050d5` — `scripts/gan_mu/loc_lai_pii.py` dùng đúng `scrub()` của sản phẩm, đã chạy (57 → 0, lũy đẳng, sao lưu ngoài kho) · đóng gói lại v2 trên dữ liệu đã lọc: nhánh hoan-thien/ho-so-2509 (V1). Lịch sử git công khai vẫn giữ bản cũ — viết lại lịch sử hay không do trưởng nhóm quyết · commit sửa sót (wf6-5) — băm chỉ còn trong tệp ngoài kho (`LIVELIFT_DINH_DANH_BAM`, mặc định tệp cạnh thư mục kho); giữ hay squash hai commit cũ khi hợp nhất do trưởng nhóm quyết | CÓ — `loc_lai_pii.py --kiem-tra` trả mã 1 khi còn PII; `test_rescrub_removes_handles_keeps_labels_and_is_idempotent`, `test_rescrub_check_mode_is_a_gate_and_prints_no_comment_text`; quét từ vựng mọi `*.joblib`: `tests/test_artifact_khong_pii.py` (V1, chưa commit — quét mẫu `@\w` + bộ lọc PII của sản phẩm, băm đã lộ không được quay lại, từ vựng ⊆ dữ liệu train đã lọc; đối chứng âm tiêm token giả) · `test_doi_chung_am_bam_da_lo_bi_bat_ma_khong_can_luu_chu` quét mọi tệp đã theo dõi tìm tiền tố ≥10 ký tự hex của băm đã biết (đỏ trước: 3 chỗ) |
 | 25/09/2026 | **MODERATE (dữ liệu cá nhân trong mã nguồn)** — `src/livelift/nlp/labels.py` (`LABEL_EXAMPLES_REAL['chao_hoi']`) giữ nguyên văn một ví dụ thật có tên hiển thị của người bình luận; ví dụ này đi thẳng vào prompt gửi LLM khi gán nhãn | Ví dụ "thật" chép nguyên từ dữ liệu trước khi bộ lọc bắt tên; không cổng nào quét mã nguồn tìm tên người trong ví dụ | nhánh hoan-thien/ho-so-2509 (V1) — thay tên bằng `[TÊN]`; bản trích trong `intent-classifier.md` đã đổi ở `83050d5` | CÓ (V1, chưa commit) — `tests/test_labels_vi_du_khong_ten.py`: ví dụ thật không bắt đầu bằng tên hiển thị, qua bộ lọc PII không đổi, đối chứng âm; tệp test chỉ giữ băm, không chép lại tên |
 | 25/09/2026 | **SERIOUS (đo lường — chỉ đo một nửa)** — 03-NLP §4 viết v2 "bớt 74% cảnh báo giả trong khi bắt được nhiều ca đúng hơn" — sai ngay trên số 14/09 (nhãn hành động đoán đúng 54 → 40); recall nhãn hành động chưa từng được đo (đo 25/09: v1 78,3% → v2 55,1%) | Khung đánh giá chỉ đo precision nhãn hành động; câu diễn giải viết tay không đối chiếu với tử số k/n trong bảng | `83050d5` — `action_recall` trong `evaluate_system`; `results.md` in cả precision lẫn recall; bảng số 03-NLP sinh từ `results.json`; câu sai được sửa và ghi rõ | CÓ cho chỉ số — `test_action_recall_counts_every_true_action_row`, `test_silent_model_has_zero_recall_not_a_flattering_precision`, `test_figure_details_are_consistent_and_contain_no_comment_text`; CHƯA có cổng đối chiếu câu chữ tài liệu với số |
 | 25/09/2026 | **MODERATE (số NLP trên tài liệu lệch nguồn sau khi đo lại)** — sau khi đo lại (C2 0,565 → 0,542 [0,478; 0,625]; accuracy 0,741 → 0,730; precision nhãn hành động 66,7% (40/60) → 65,5% (38/58); chênh trước/sau +0,354 → +0,331; dải theo buổi 0,372–0,635 → 0,368–0,599), README, FACT-SHEET, kịch bản demo, 09-PHAN-CONG và docstring `src/livelift/nlp/intent.py` vẫn ghi số 14/09 và trỏ về chính `results.json` đã đổi | Số chép tay từ bản 14/09; không cổng nào đối chiếu tài liệu với `results.json`; bảng số của 03-NLP sinh bằng script nằm ngoài kho | `3a2b489` (README, FACT-SHEET, kịch bản demo) · `83050d5` (03-NLP, `intent-classifier.md`) · docstring `intent.py`: nhánh hoan-thien/ho-so-2509 (V1) · nhánh hoan-thien/ho-so-2509 (V2) (09-PHAN-CONG và các tài liệu còn lại) — số 14/09 chỉ còn khi ghi rõ là đo trước khi lọc lại PII | MỘT PHẦN — `test_web_dong_bo_so::test_fact_sheet_so_y_dinh_khop_results_json` (chỉ FACT-SHEET). `docs/research/2026-09-17-danh-gia-toan-dien-va-lo-trinh-tu-dong.md` còn 0,565 (ngoài làn tài liệu) |
@@ -119,13 +119,13 @@ bắt buộc: lỗi này lọt qua gate nào, có cần gate mới không (ghi "
 | 25/09/2026 | **MINOR (số công bố lỗi thời sau khi đo lại)** — sau V3 (đo lại hiệu chuẩn trên 17c3ee1, chạy đủ 2.030 test), FACT-SHEET vẫn ghi A/A "đo 14/09, `--kiem` chạy lại trên 390027b" và kết quả chạy gần nhất "chưa chạy trên nhánh hoàn thiện" | `do_lai_so_hieu_chuan.py` và `dong_bo_so_test.py` chỉ đồng bộ CON SỐ; phần chữ nói lần đo nào, trên bản git nào thì không script hay test nào chạm | `14266d2` — dòng A/A nêu 17c3ee1 và ngày đo trong JSON; dòng Bộ kiểm thử ghi lần chạy V3 | CÓ — `test_so_cong_bo.py::test_fact_sheet_hieu_chuan_trich_dung_lan_do_ghi_trong_json` (đọc `ban_git`, `ngay_do`) và `::test_so_su_co_o_fact_sheet_va_ho_so_khop_so_hang_cua_so_su_co`. Dòng kết quả chạy vẫn sửa tay |
 | 25/09/2026 | **MODERATE (số công bố lệch ngoài vùng quét của cổng)** — Bảng 5 của hồ sơ và bảng "Số được phép nói" của kịch bản video ghi 99 sự cố khi sổ đã 109; câu số test trong 05, 07 không được `dong_bo_so_test.py` quét; 05 còn "9 commit, tới 17c3ee1", "quét 58 commit", "còn lọt 2 tên" sau khi đã vá; hồ sơ không nhắc Hình 5 trong thân bài. Sau đó `TONG-KET-DU-AN.md` vẫn "**99** sự cố" và `01-CHIEN-LUOC.md` "99 hàng" | Cổng số chỉ quét README, FACT-SHEET và mẫu `**N** sự cố` của hồ sơ: dòng bảng, 05, 07, TONG-KET, 06 nằm ngoài vùng quét; số chép tay. Bộ dựng hồ sơ chặn nhắc tới hình không tồn tại nhưng không chặn hình không được nhắc | `2bde93b` — sửa số; `dong_bo_so_test.py` thêm mẫu bắt buộc cho noi-dung, 05, 07 và `lech_ket_qua_chay`; thêm "(Hình 5b)". `816ed60` — TONG-KET, 01, 06 theo sổ | CÓ — `test_so_cong_bo.py::test_so_su_co_o_fact_sheet_va_ho_so_khop_so_hang_cua_so_su_co` quét mọi dạng trích ở noi-dung, 05, 07 và nay cả TONG-KET, 06 (đỏ trước: TONG-KET [109, 99]); `test_web_dong_bo_so.py`. CHƯA: cổng "hình không được nhắc" của bộ dựng; `01-CHIEN-LUOC.md` (ảnh chụp 14/09, có số cũ có chủ ý) không quét |
 | 25/09/2026 | **MODERATE (số Prompt Log chép tay đi sau bản xuất)** — bản kê khai và hồ sơ mục 13 ghi 78 câu lệnh / 567 nhật ký tác tử con (18 chỗ lệch `SO-DEM.json`: 83 / 598, số bản ghi theo mô hình, số phiên); sau khi sửa, `06-KHO-MA-VA-MINH-CHUNG.md` vẫn 78 / 567 ở 3 chỗ | Phiên làm việc còn ghi tới lần xuất cuối nên số chép tay luôn đi sau; không gì so tài liệu với `SO-DEM.json`; cổng mới của `2bde93b` chỉ quét 05 và noi-dung | `2bde93b` — sửa 18 chỗ; `trich_so_prompt_log`, `lech_so_prompt_log` trong `dung_goi_drive.py` (thoát mã 1 khi lệch). `816ed60` — 06 theo SO-DEM (83 / 598); cổng quét cả 06 (`TEP_SO_PROMPT_LOG`) | CÓ — `test_dung_ke_khai.py::test_ban_ke_khai_that_sach_va_du_muc` đòi 06 nằm trong `TEP_SO_PROMPT_LOG` và khớp 05 (đỏ trước: 5 chỗ lệch ở 06). Số còn đổi ở lần xuất cuối: chạy lại `dung_goi_drive.py` |
-| 25/09/2026 | **MINOR (câu kê khai tự lỗi thời)** — bản kê khai ghi "N commit ngày 25/09/2026, commit cuối là commit dựng bản kê khai này" và "N/N commit của nhánh"; sai mỗi khi nhánh thêm commit (9 → 22 → 23 → 24), một làn đã phải `--amend` để giữ câu đúng | Câu kê khai phụ thuộc số commit của một nhánh đang sống; không cổng nào kiểm | `816ed60` — 05 (dòng 11, 64, 225) trỏ `git log main..hoan-thien/ho-so-2509`, không ghi số | CÓ — `test_dung_ke_khai.py::test_khang_dinh_sai_cu_chi_con_trong_muc_dinh_chinh` cấm ghi số commit của nhánh (đỏ trước: "23 commit ngày 25/09") |
+| 25/09/2026 | **MINOR (câu kê khai tự lỗi thời)** — bản kê khai ghi "N commit ngày 25/09/2026, commit cuối là commit dựng bản kê khai này" và "N/N commit của nhánh"; sai mỗi khi nhánh thêm commit (9 → 22 → 23 → 24), một làn đã phải `--amend` để giữ câu đúng · Kiểm độc lập 25/09 (wf6-5, P0): 05 tả `main` = 390027b, 56/56 commit, nhánh hoàn thiện “chưa hợp nhất”; điền mã commit ở hồ sơ mục 13 sau khi hợp nhất mà không sửa 05 thì hai văn bản nộp cùng nhau mâu thuẫn | Câu kê khai phụ thuộc số commit của một nhánh đang sống; không cổng nào kiểm · Hai văn bản tả cùng trạng thái kho, không cổng nào so | `816ed60` — 05 (dòng 11, 64, 225) trỏ `git log main..hoan-thien/ho-so-2509`, không ghi số · commit sửa sót (wf6-5) — `dung_ke_khai.lech_trang_thai_kho`: mục 13 có mã commit thì 05 phải ghi đúng mã đó và hết các câu tả kho trước hợp nhất; bộ dựng kê khai chặn | CÓ — `test_dung_ke_khai.py::test_khang_dinh_sai_cu_chi_con_trong_muc_dinh_chinh` cấm ghi số commit của nhánh (đỏ trước: "23 commit ngày 25/09") · `test_khang_dinh_sai_cu_chi_con_trong_muc_dinh_chinh` (đỏ trước: hàm chưa có) |
 | 25/09/2026 | **SERIOUS (so hai số NLP khác thang như một mức tăng)** — Tóm tắt, README, FACT-SHEET, lời thoại video nói "0,211 → 0,542" như mức tăng của một phép đo: 0,211 là v1 (6 lớp) chấm có ngưỡng 0,45 trên thang 11 lớp, 0,542 là v2 (11 lớp) chấm chưa áp ngưỡng; hồ sơ 9.4 nói nhãn LLM tăng macro-F1 +0,021, chấm trên các lớp có mặt thì đổi dấu (−0,034, lớp ma `hoi_daily`) | Bảng ablation không có dòng v1 chấm cùng thang; tham số chấm (ngưỡng, tập lớp) không in cạnh số | `cd5190b` — dòng A9 (`ablation_specs`): cùng thang 6 lớp 0,370 [0,306; 0,432] → 0,572 [0,471; 0,667]; `39ab96a` — hồ sơ ghi ngưỡng và lớp ma. `816ed60` — README, FACT-SHEET, 01 thêm cặp cùng thang | CÓ — `test_nlp_eval_harness.py::test_collapse_to_six_maps_every_new_class_back_to_khac` đòi dòng A9. CHƯA: cổng buộc tài liệu trích cặp cùng thang cạnh 0,211 → 0,542 |
 | 25/09/2026 | **MODERATE (một bằng chứng đếm hai lần)** — Tóm tắt và Bảng 4 hồ sơ, README, FACT-SHEET, TONG-KET, kịch bản demo, phản biện dự kiến trình bày độ phủ A/A 96,50% như bằng chứng thứ hai cạnh tỷ lệ bác bỏ 3,50% | `sim/validate.py` tính bác bỏ và độ phủ từ cùng một KTC (khi τ = 0, phủ ⇔ không bác bỏ): 193 = 200 − 7 | `cd5190b` — hồ sơ dùng thu hồi tác động biết trước (37/40) làm bằng chứng về độ phủ. `816ed60` — README, FACT-SHEET, TONG-KET, 01, kịch bản demo, phản biện | CÓ — `test_so_cong_bo.py::test_readme_khong_con_bo_so_hieu_chuan_cu_khong_tai_lap_duoc`: dòng nêu 96,50% ở README, FACT-SHEET, TONG-KET phải ghi "không độc lập" (đỏ trước: README dòng 53, 214) |
 | 25/09/2026 | **SERIOUS (làm mù người dẫn nói là trọn vẹn)** — hồ sơ 5.3, Hình 6 ("/host: người dẫn bị làm mù"), NGUON Hình 7c ("không có nhánh"), README ("màn hình host *không thể* rò nhánh"), TONG-KET, HUONG-DAN-SU-DUNG ("KHÔNG BAO GIỜ"), runbook ("hoàn toàn"), lời dẫn trình quay video ("không có khối, không có nhánh"). Thật ra `/host` hiện sản phẩm đang ghim — chính là can thiệp — và ở chế độ Tự ghim lệnh ghim chỉ đến trong khối BẬT (khối TẮT hiện "Chưa ghim sản phẩm"), nên người dẫn đoán được nhánh | Cổng làm mù (`HostState` 4 trường, `extra="forbid"`, `test_case_8`, test tầng mạng) chỉ kiểm payload không chứa trường khối hay nhánh, không xét thông tin suy ra từ chính can thiệp; câu chữ viết theo cổng | `cd5190b` — hồ sơ 5.3 "một phần", estimand theo PREREG §1; `39ab96a` — Hình 6 "/host: không thấy lịch". `816ed60` — README, TONG-KET, FACT-SHEET, HUONG-DAN-SU-DUNG, runbook, NGUON Hình 7c, lời dẫn và tiêu đề cảnh của `chup_giao_dien.py` | CÓ — `test_ve_hinh_ho_so.py::test_nguon_md_sinh_tu_tom_tat_khong_sua_tay`: Hình 6, NGUON, trình quay, README, TONG-KET, HUONG-DAN, runbook không nói làm mù trọn vẹn (đỏ trước). Thiết kế chưa có cách che chính can thiệp: ghi là giới hạn, không phải lỗi đã sửa |
-| 25/09/2026 | **SERIOUS (hồ sơ nói khác mã và dữ liệu, tái diễn)** — Bảng 6 gọi ước lượng viên là Horvitz–Thompson (mã: Hájek, trùng khi xác suất gán không đổi); 7.1 "`--kiem` báo đỏ khi tài liệu lệch" (chỉ so số đo lại với `so-hieu-chuan.json`); Bảng 9 "chỉ dùng API chính thức" (mã còn yt-dlp, cookie trình duyệt, bộ thu TikTok dịch ngược) và "luôn đòi token" (6/19 route ghi); 10.1 `kiem_tra_truoc_demo.py` "kiểm mọi phân hệ" (không kiểm `INGEST_TOKEN`, `RESULTS_FREEZE_UNTIL`); 5.3 "139 phản hồi" (không có trong kho); số phụ sai nguồn: "2 dòng ý định mua" (5 dòng nhãn hành động), "68 dòng" (57 tên), "hàng trăm nghìn khối" (38.848), hạn mức YouTube không nói giả định 1 hay 5 đơn vị/lượt đọc; nói quá phạm vi: "mọi bối cảnh", "mọi nơi có một kênh phát", "máy chủ phổ thông" (mới chạy trên máy cá nhân) | Câu và số trong văn xuôi viết theo thiết kế dự định hoặc trí nhớ, không đối chiếu mã hay tệp dữ liệu; chỉ bộ số chuẩn (FACT-SHEET) có cổng. Lớp lỗi của hàng "hồ sơ nói sai hoặc mạnh hơn mã" (25/09) tái diễn | `cd5190b`, `39ab96a` — viết lại từng câu theo mã và tệp (dẫn `estimators.ht_effect`, `config.py`, `schemas.HostState`, `results.md`, `data/labeling/README.md`). `816ed60` — lời dẫn `chup_giao_dien.py` bỏ "mọi nơi có một kênh phát" | KHÔNG tự động được cho văn xuôi — quy trình: hội đồng thử kiểm toán số liệu đối chiếu từng câu với mã trước khi nộp; câu đã sửa có nguồn ghi kèm. Trình quay: cấm cụm cũ trong `test_nguon_md_sinh_tu_tom_tat_khong_sua_tay` |
+| 25/09/2026 | **SERIOUS (hồ sơ nói khác mã và dữ liệu, tái diễn)** — Bảng 6 gọi ước lượng viên là Horvitz–Thompson (mã: Hájek, trùng khi xác suất gán không đổi); 7.1 "`--kiem` báo đỏ khi tài liệu lệch" (chỉ so số đo lại với `so-hieu-chuan.json`); Bảng 9 "chỉ dùng API chính thức" (mã còn yt-dlp, cookie trình duyệt, bộ thu TikTok dịch ngược) và "luôn đòi token" (6/19 route ghi); 10.1 `kiem_tra_truoc_demo.py` "kiểm mọi phân hệ" (không kiểm `INGEST_TOKEN`, `RESULTS_FREEZE_UNTIL`); 5.3 "139 phản hồi" (không có trong kho); số phụ sai nguồn: "2 dòng ý định mua" (5 dòng nhãn hành động), "68 dòng" (57 tên), "hàng trăm nghìn khối" (38.848), hạn mức YouTube không nói giả định 1 hay 5 đơn vị/lượt đọc; nói quá phạm vi: "mọi bối cảnh", "mọi nơi có một kênh phát", "máy chủ phổ thông" (mới chạy trên máy cá nhân) · Kiểm độc lập 25/09 (wf6-5): Bảng 6 ghi hiệu hai trung bình “đã gỡ khỏi báo cáo” trong khi `analyze_outer` dùng nó làm ước lượng điểm chính; thẻ Tự ghim trên `/chay-phien` (lên video demo) hứa “tự ghim sản phẩm tốt nhất; bạn chỉ theo dõi” (người trợ live vẫn bấm ghim trên ứng dụng của nền tảng; khoảng tin cậy chồng lấn thì bốc đều 1/k) | Câu và số trong văn xuôi viết theo thiết kế dự định hoặc trí nhớ, không đối chiếu mã hay tệp dữ liệu; chỉ bộ số chuẩn (FACT-SHEET) có cổng. Lớp lỗi của hàng "hồ sơ nói sai hoặc mạnh hơn mã" (25/09) tái diễn · Như trên; chữ giao diện không được so với hồ sơ | `cd5190b`, `39ab96a` — viết lại từng câu theo mã và tệp (dẫn `estimators.ht_effect`, `config.py`, `schemas.HostState`, `results.md`, `data/labeling/README.md`). `816ed60` — lời dẫn `chup_giao_dien.py` bỏ "mọi nơi có một kênh phát" · commit sửa sót (wf6-5) — Bảng 6 viết lại theo mã; thẻ Tự ghim và HUONG-DAN-SU-DUNG viết lại theo hồ sơ 11.2 | KHÔNG tự động được cho văn xuôi — quy trình: hội đồng thử kiểm toán số liệu đối chiếu từng câu với mã trước khi nộp; câu đã sửa có nguồn ghi kèm. Trình quay: cấm cụm cũ trong `test_nguon_md_sinh_tu_tom_tat_khong_sua_tay` · Thẻ Tự ghim: `test_k4_wizard_gui_dry_run_va_giai_thich_o_buoc_4` (đỏ trước: “bạn chỉ theo dõi”) |
 | 25/09/2026 | **MODERATE (việc AI làm ghi như việc của đội)** — hồ sơ ghi "95 câu nhóm soạn" (Claude soạn ngày 24/08, `5111e48`), mục 5.4 không nói ai viết mã, Bảng 8 "nhãn thật" (nhãn do tác tử AI gán), MT6 "Đạt" dù nhãn tham chiếu do AI gán, "khảo sát" (thật: rà soát công cụ và tài liệu), "nhóm thiết kế bộ nhãn" | Câu từ bản 15/09 và trước chưa rà theo đính chính của bản kê khai (mục VII.2); cổng chỉ cấm các cụm đã biết trong 05 ("tự viết", "gán tay") | `cd5190b` — S1, S2, S13, S14, #12, #21–22; `39ab96a` — MT6 "Một phần: nhãn do AI gán" | KHÔNG tự động — đối chiếu hồ sơ với 05 mục VII.2 trước khi nộp (việc người); hồ sơ chưa có cổng cụm từ như 05 |
 | 25/09/2026 | **SERIOUS (căn cứ pháp lý trích sai hoặc thiếu)** — phương án A ở 3.3 dựa trên Luật 91/2025/QH15 Điều 2 khoản 1 ("sau khi khử nhận dạng không còn là dữ liệu cá nhân") và gọi bộ lọc biểu thức chính quy là "khử nhận dạng", trong khi khoản 11 định nghĩa khử nhận dạng là không còn xác định được, mà câu nguyên văn vẫn tra ngược được người viết qua bản phát lại công khai; hồ sơ chưa khai việc đưa bình luận vào Claude là xử lý trên nền tảng ở nước ngoài (Điều 20); Điều 9 khoản 4 thiếu điểm; tự đánh giá theo NĐ 142/2026 thiếu căn cứ (Điều 6 khoản 1, Điều 9) | Căn cứ chọn từ câu hợp ý mà không đọc định nghĩa; thuật ngữ pháp lý dùng cho một bộ lọc kỹ thuật; chưa có người có chuyên môn pháp lý đọc | `cd5190b` — Điều 11, 20, 37; `39ab96a` — Điều 2 khoản 11 (giữ chú thích DUYỆT), "lọc định danh", Điều 9 khoản 4 điểm d, NĐ 142 Điều 6, 9 | KHÔNG — cần người có chuyên môn pháp lý đọc 3.3 và 11.2 trước khi nộp; chọn A hay B/B′ ở 3.3 vẫn chờ trưởng nhóm |
 | 25/09/2026 | **MINOR (bản in ngắt dòng giữa tên và số)** — PDF hồ sơ ngắt "(Hình" / "5b)", "(Hình" / "7)" | `emit_runs` của `dung_ho_so.py` nối "Hình/Bảng/mục/Điều/khoản" với số bằng khoảng trắng thường | `39ab96a` — khoảng trắng không ngắt U+00A0 trước chữ số | CÓ — `dung_ho_so.py --tu-kiem` (đỏ trước: khoảng trắng thường) |
 | 25/09/2026 | **SERIOUS (hồ sơ trỏ kho công khai chưa có số của nó)** — mục 13 trỏ nhánh `main` của kho công khai như nơi sinh lại mọi số, trong khi `origin/main` là `390027b`: chưa có các commit hoàn thiện (`b331076`, `fa64589`, `cd5190b`…), sổ sự cố ở đó 60 hàng | Nhánh hoàn thiện chờ trưởng nhóm duyệt; câu viết theo trạng thái mong đợi sau khi hợp nhất | `39ab96a` — "nhánh `main` tại commit ⬜" (điền sau khi hợp nhất và đẩy lên) | CÓ — bộ dựng chặn bản nộp khi còn ô ⬜ (`--cho-phep-o-trong` chỉ cho bản nháp) |
-| 25/09/2026 | **MODERATE (lộ trình xếp việc an toàn sau việc nó phải đi trước)** — Bảng 10 xếp "nâng Next.js" sau cuộc thi trong khi `npm audit` 25/09 báo 2 lỗ hổng nghiêm trọng (thực thi mã từ xa) ở Next.js 14.2.32 và địa chỉ công khai ≥48 giờ xếp trước vòng Chung kết; thỏa thuận xử lý dữ liệu, căn cứ xử lý lượt nhấp và đường lọt `/report` xếp sau phiên thật đầu tiên; chưa có dòng tìm nhà bán đối tác | Bảng lộ trình xếp theo tính năng; kết quả `npm audit` và các điểm còn mở của 3.3, 11.4 không được nối với mốc cần chúng | `cd5190b` — D6: pháp lý và `/report` trước phiên thật; `39ab96a` — nâng Next.js trước vòng Chung kết (bản vá từ 15.5.24), thêm dòng tìm đối tác, ≥18 phiên. Bản thân lỗ hổng CHƯA vá | CHƯA — đề xuất `npm audit --audit-level=critical` trong CI và trong `kiem_tra_truoc_demo.py` trước khi mở địa chỉ công khai; thứ tự mới của Bảng 10 chờ trưởng nhóm duyệt |
+| 25/09/2026 | **MODERATE (lộ trình xếp việc an toàn sau việc nó phải đi trước)** — Bảng 10 xếp "nâng Next.js" sau cuộc thi trong khi `npm audit` 25/09 báo 2 lỗ hổng nghiêm trọng (thực thi mã từ xa) ở Next.js 14.2.32 và địa chỉ công khai ≥48 giờ xếp trước vòng Chung kết; thỏa thuận xử lý dữ liệu, căn cứ xử lý lượt nhấp và đường lọt `/report` xếp sau phiên thật đầu tiên; chưa có dòng tìm nhà bán đối tác · Kiểm độc lập 25/09 (wf6-5): sau `39ab96a` Bảng 10 vẫn xếp nâng Next.js, bắt buộc `INGEST_TOKEN`, `RESULTS_FREEZE_UNTIL` sau các phiên thật tháng 10–11, trong khi link đo cần địa chỉ công khai từ phiên thật đầu tiên; máy chủ Singapore (10.1) chưa nối với Luật 91 Điều 20 | Bảng lộ trình xếp theo tính năng; kết quả `npm audit` và các điểm còn mở của 3.3, 11.4 không được nối với mốc cần chúng · Như trên | `cd5190b` — D6: pháp lý và `/report` trước phiên thật; `39ab96a` — nâng Next.js trước vòng Chung kết (bản vá từ 15.5.24), thêm dòng tìm đối tác, ≥18 phiên. Bản thân lỗ hổng CHƯA vá · commit sửa sót (wf6-5) — các việc đó chuyển vào “trước phiên thật”, thêm máy chủ đặt tại Việt Nam hoặc lập hồ sơ theo Luật 91 Điều 20; 11.4 sửa theo | CHƯA — đề xuất `npm audit --audit-level=critical` trong CI và trong `kiem_tra_truoc_demo.py` trước khi mở địa chỉ công khai; thứ tự mới của Bảng 10 chờ trưởng nhóm duyệt |
